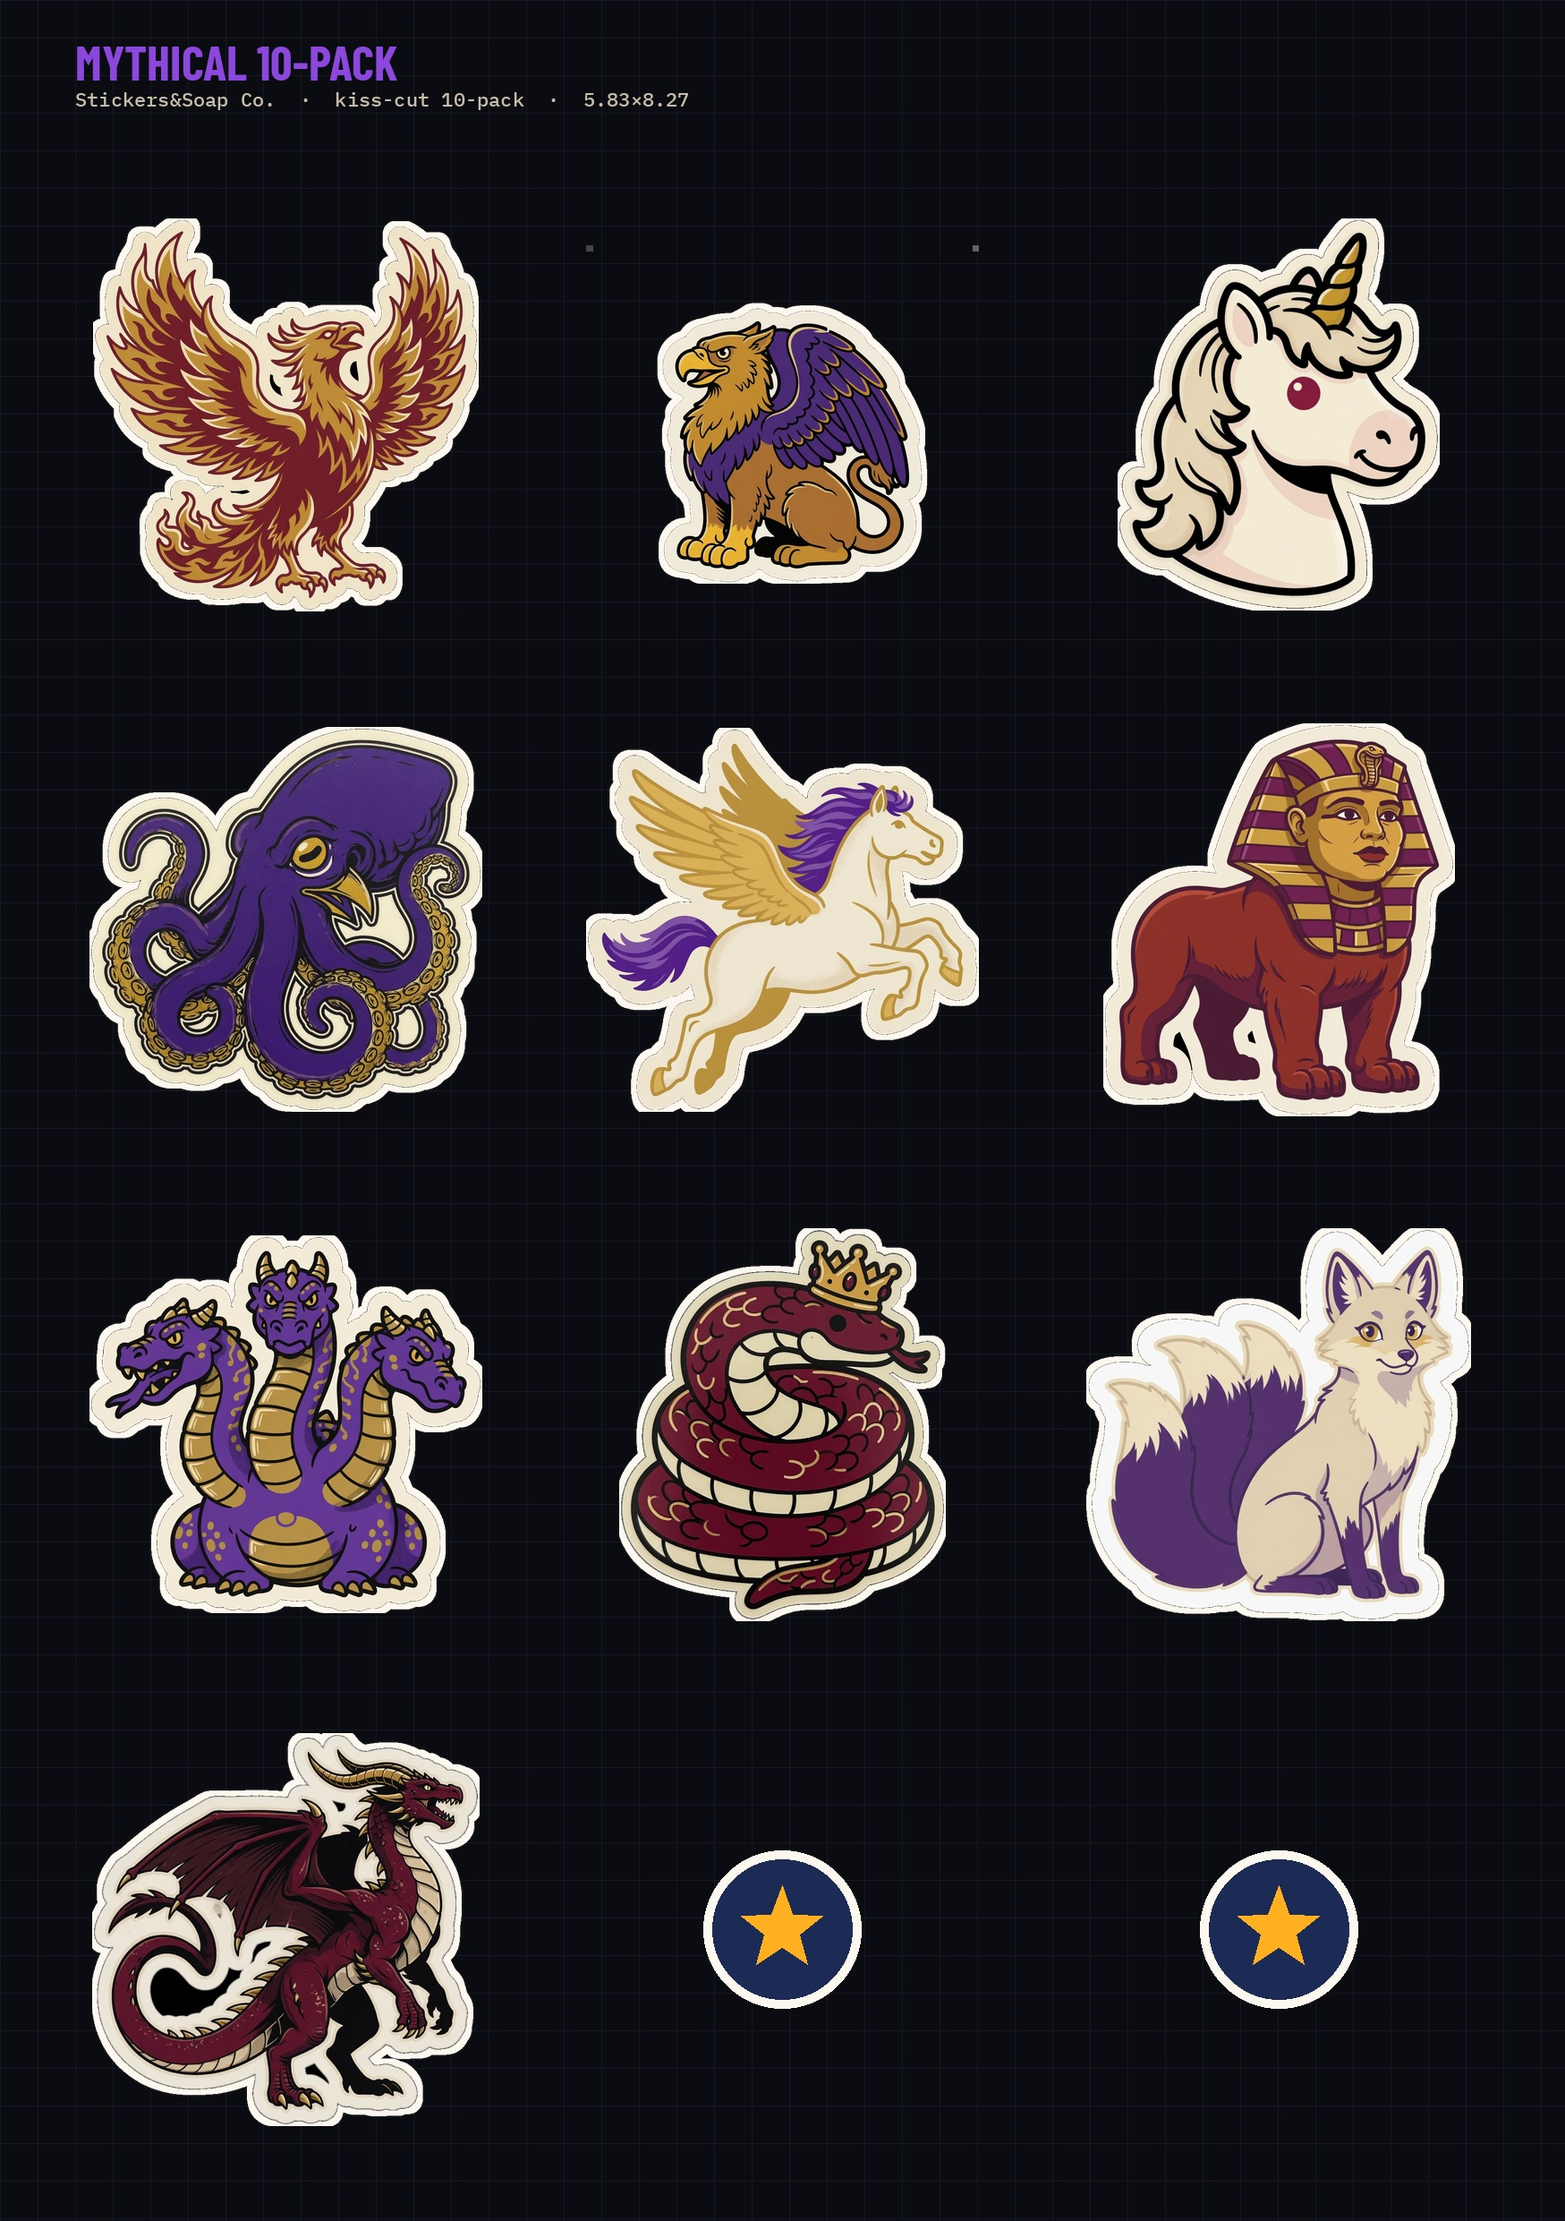
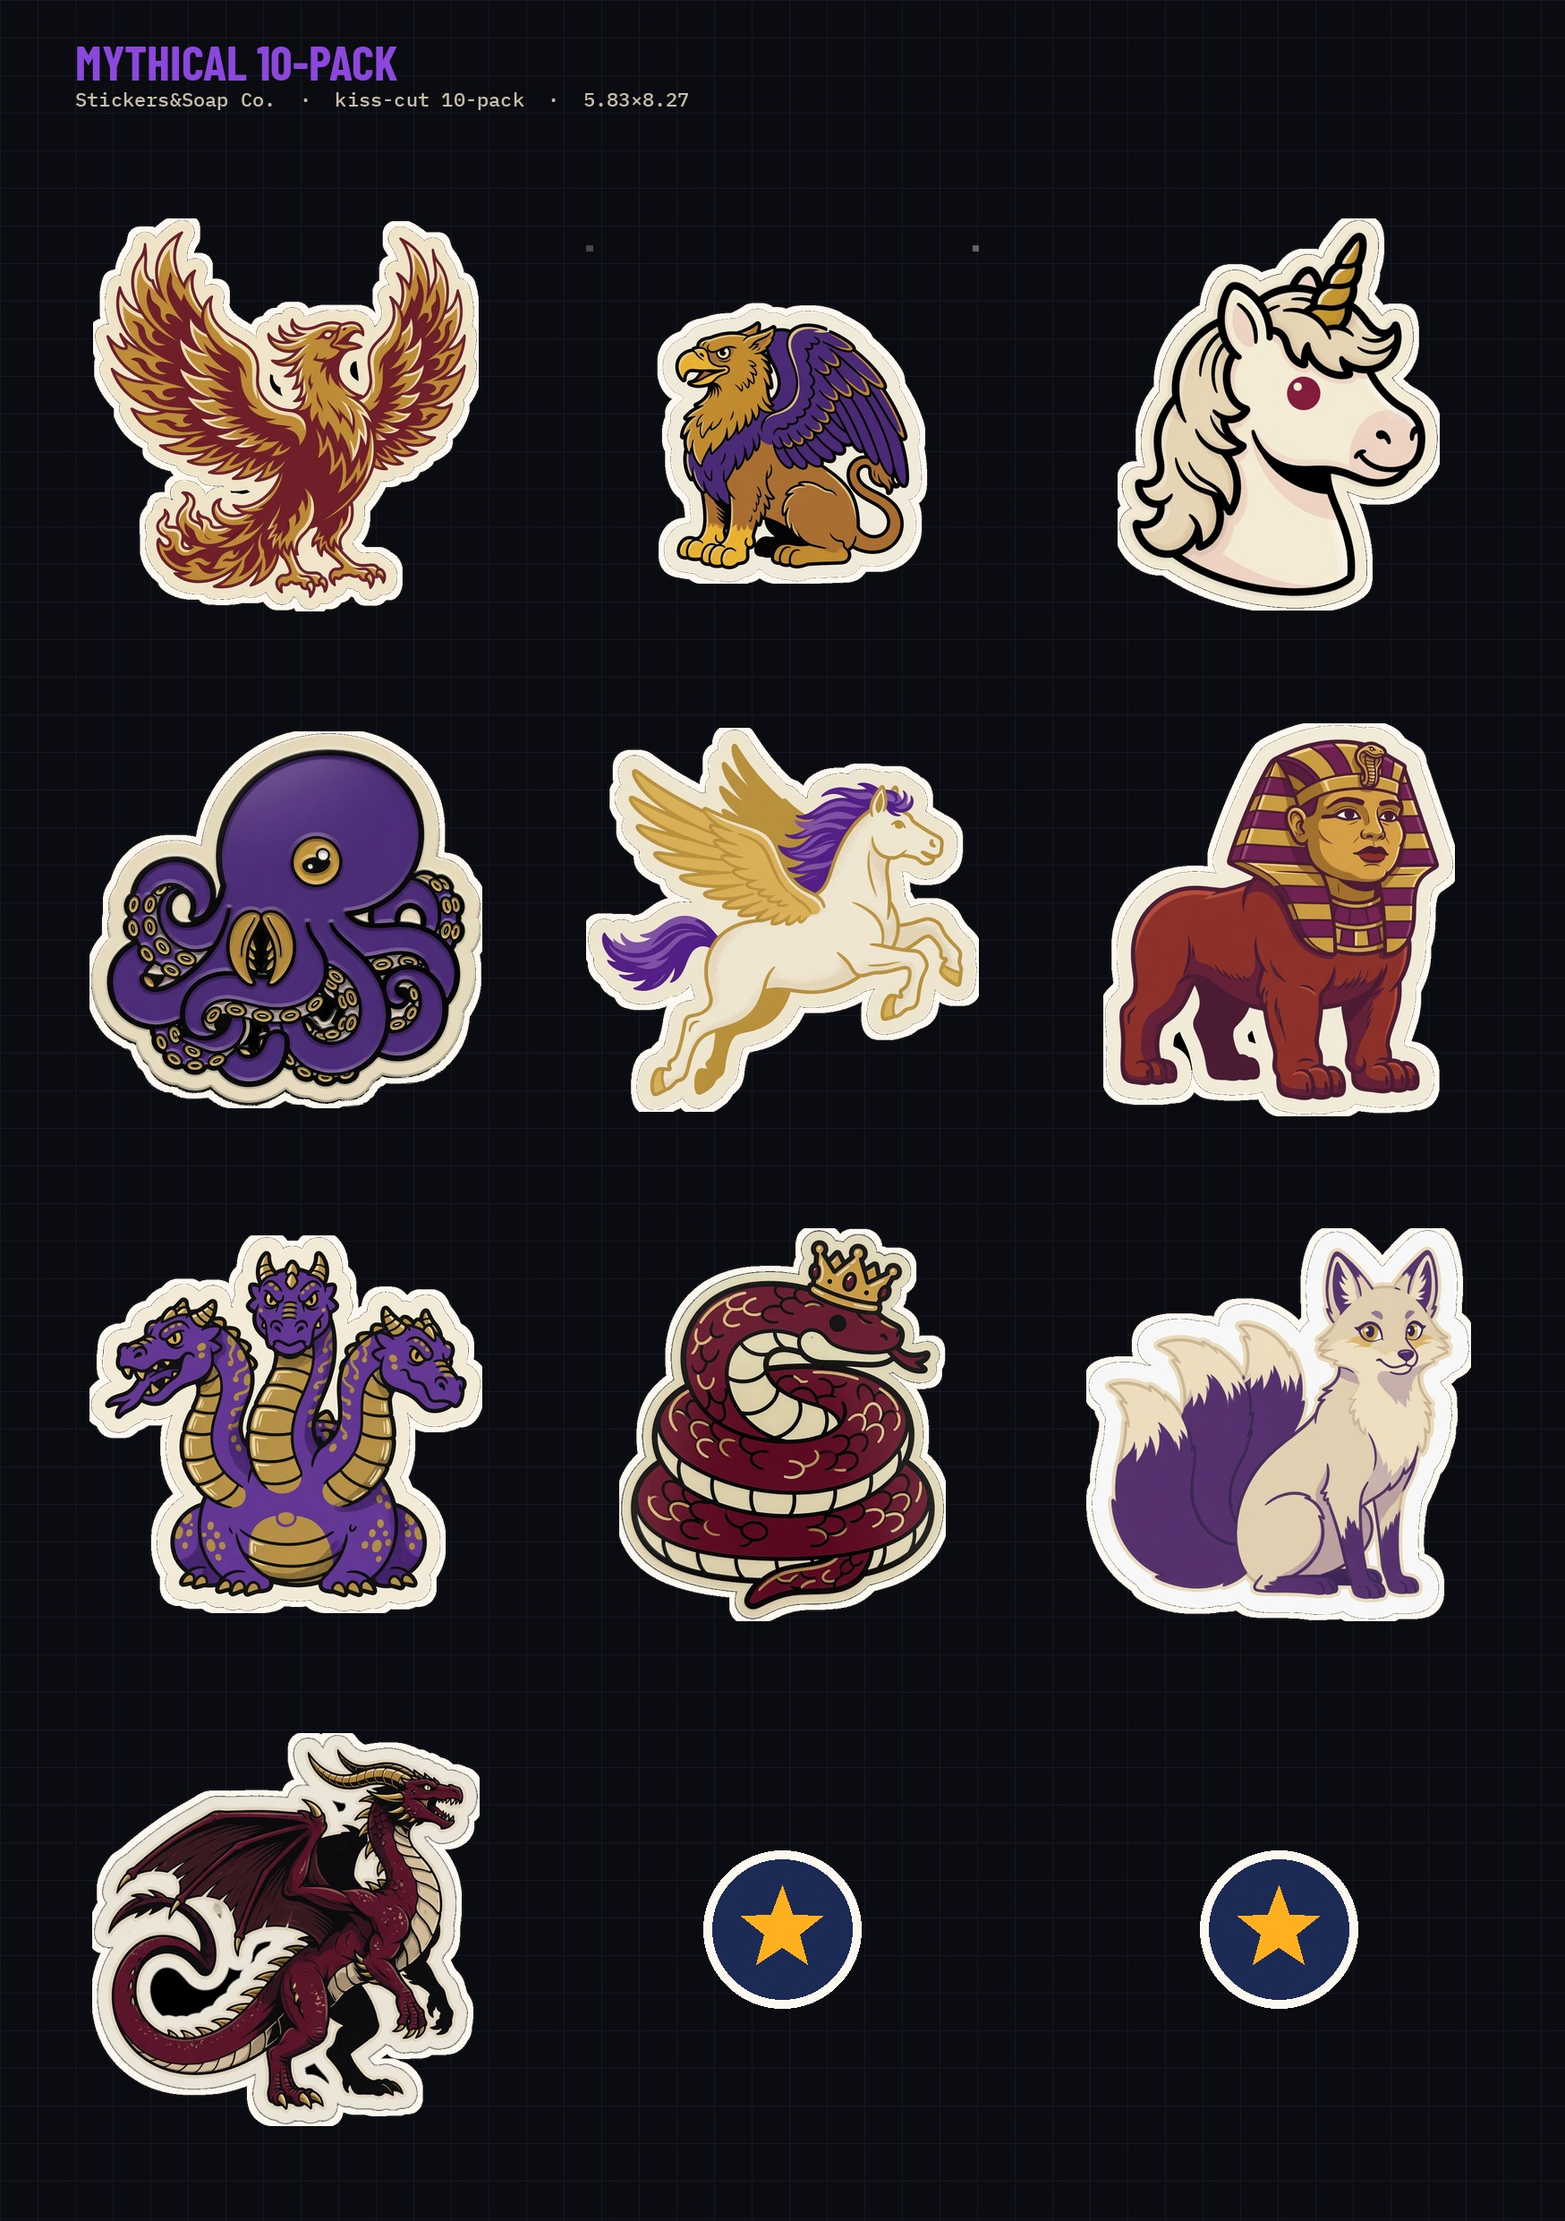
publish(merch-review): 2026-09-13T2029Z

Changed region(s): [[0.0617, 0.3104, 0.3087, 0.5276]]

diff --git a/merch-review/index.html b/merch-review/index.html
@@ -4,9 +4,9 @@
 <meta charset="utf-8"/>
 <meta name="viewport" content="width=device-width, initial-scale=1, viewport-fit=cover"/>
 <meta name="robots" content="noindex"/>
-<meta name="merch-review-build" content="rev7-sticker-shop-2026-09-13"/>
-<title>Rev 7 review — Stickers&Soap Co. sticker shop</title>
-<meta name="description" content="Stickers&Soap Co. Rev7: 100 die-cut stickers, 10 genres, 10-packs. S&S OG foundation first. Comment Yes/Later/No."/>
+<meta name="merch-review-build" content="rev7-fix-sticker-shop-2026-09-13"/>
+<title>Rev 7 FIX — Stickers&Soap Co. sticker shop</title>
+<meta name="description" content="Stickers&Soap Co. Rev7 FIX: YES-only stickers, quotes killed, BYO 10-pack $20. Comment Yes/Later/No."/>
 <link rel="canonical" href="https://cprahill.github.io/command/merch-review/"/>
 <link href="https://fonts.googleapis.com/css2?family=Anton&family=Barlow+Condensed:wght@600;700&family=IBM+Plex+Mono:wght@400;500&display=swap" rel="stylesheet"/>
 <style>
@@ -217,10 +217,10 @@ body.og-only .card:not(.og) { display: none; }
 </head>
 <body>
 <header>
-  <div class="brand">COMMAND <i>//</i> MERCH REVIEW · REV7 · STICKERS&amp;SOAP CO.</div>
-  <p style="color:#ffb020;font:700 12px/1.3 IBM Plex Mono,monospace;letter-spacing:.08em">BUILD rev7 · stickers only · 100 marks · 10 genres · singles $5/$6 · 10-packs $14 · S&amp;S OG first</p>
-  <h1>Stickers&amp;Soap Co. Comment Yes / Later / No.</h1>
-  <p class="lede">Rev6 moth/sparrow/toad FAIL. This board is stickers only until profit. Gold tag = recommended S&amp;S OG foundation (year-round). Untagged = drop candidates. No licensed anime. Do not upload live until you YES.</p>
+  <div class="brand">COMMAND <i>//</i> MERCH REVIEW · REV7 FIX · STICKERS&amp;SOAP CO.</div>
+  <p style="color:#ffb020;font:700 12px/1.3 IBM Plex Mono,monospace;letter-spacing:.08em">BUILD rev7-fix · YES-only · quotes/spino killed · singles $5/$6 · genre 10-packs $14 · BYO 10-pack $20 · S&amp;S OG first</p>
+  <h1>Stickers&amp;Soap Co. FIX pass. Comment Yes / Later / No.</h1>
+  <p class="lede">Art fixes: avocado colors, donut frosting, snake one tail, daruma both eyes, kraken beak. Quotes + pack-quote + spino gone. New: Build Your Own 10-pack $20 (pick any 10 YES singles). Gold tag = S&amp;S OG. Do not upload live until you YES this board.</p>
   <div class="tally">
     <span>approve <b id="n-yes">0</b></span>
     <span>later <b id="n-later">0</b></span>
@@ -243,7 +243,6 @@ body.og-only .card:not(.og) { display: none; }
       <a href="#pin">Pins</a>
       <a href="#chibi">Chibi</a>
       <a href="#myth">Myth</a>
-      <a href="#quote">Quotes</a>
       <a href="#anime">Anime</a>
       <a href="#packs">Packs</a>
     </nav>
@@ -255,11 +254,11 @@ body.og-only .card:not(.og) { display: none; }
   <textarea id="global-note" placeholder="Lock OG 24? skip anime? YES Wave 1 Snack pack?…"></textarea>
 </div>
 <footer>
-  <p>Picks save on this phone in localStorage. Export JSON and Drop-save as <code>merch/review-comments.json</code>. Upload winners only from <code>merch/GO-REV7.md</code>.</p>
+  <p>Picks save on this phone in localStorage. Export JSON and Drop-save as <code>merch/review-comments.json</code>. Upload winners only after YES on <code>merch/GO-REV7-FIX.md</code>.</p>
   <p>Fourthwall $0/mo primary. Shopify mapped, meter YES-gated. No tees / keychains until sticker profit.</p>
 </footer>
 <script>
-const KEY = "merch-review-rev7-sticker-2026-09-13";
+const KEY = "merch-review-rev7-fix-2026-09-13";
 const SKUS = [
   {id:'boombox-80s', theme:'eighty', door:'A Fourthwall · B Shopify', name:'Boombox', type:'kiss-cut $5 / die-cut $6', price:5, why:'S&S OG pick. Year-round foundation.', og:true},
   {id:'cassette-80s', theme:'eighty', door:'A Fourthwall · B Shopify', name:'Cassette', type:'kiss-cut $5 / die-cut $6', price:5, why:'S&S OG pick. Year-round foundation.', og:true},
@@ -318,7 +317,6 @@ const SKUS = [
   {id:'ptera-dino', theme:'dino', door:'A Fourthwall · B Shopify', name:'Ptera', type:'kiss-cut $5 / die-cut $6', price:5, why:'Die-cut ready. Cream contour. Original.', og:false},
   {id:'brachio-dino', theme:'dino', door:'A Fourthwall · B Shopify', name:'Brachio', type:'kiss-cut $5 / die-cut $6', price:5, why:'Die-cut ready. Cream contour. Original.', og:false},
   {id:'ankylo-dino', theme:'dino', door:'A Fourthwall · B Shopify', name:'Ankylo', type:'kiss-cut $5 / die-cut $6', price:5, why:'Die-cut ready. Cream contour. Original.', og:false},
-  {id:'spino-dino', theme:'dino', door:'A Fourthwall · B Shopify', name:'Spino', type:'kiss-cut $5 / die-cut $6', price:5, why:'Die-cut ready. Cream contour. Original.', og:false},
   {id:'dilo-dino', theme:'dino', door:'A Fourthwall · B Shopify', name:'Dilo', type:'kiss-cut $5 / die-cut $6', price:5, why:'Die-cut ready. Cream contour. Original.', og:false},
   {id:'para-dino', theme:'dino', door:'A Fourthwall · B Shopify', name:'Para', type:'kiss-cut $5 / die-cut $6', price:5, why:'Die-cut ready. Cream contour. Original.', og:false},
   {id:'lightning-pin', theme:'pin', door:'A Fourthwall · B Shopify', name:'Lightning', type:'kiss-cut $5 / die-cut $6', price:5, why:'S&S OG pick. Year-round foundation.', og:true},
@@ -331,16 +329,6 @@ const SKUS = [
   {id:'rose-pin', theme:'pin', door:'A Fourthwall · B Shopify', name:'Rose', type:'kiss-cut $5 / die-cut $6', price:5, why:'S&S OG pick. Year-round foundation.', og:true},
   {id:'starburst-pin', theme:'pin', door:'A Fourthwall · B Shopify', name:'Starburst', type:'kiss-cut $5 / die-cut $6', price:5, why:'Die-cut ready. Cream contour. Original.', og:false},
   {id:'horseshoe-pin', theme:'pin', door:'A Fourthwall · B Shopify', name:'Horseshoe', type:'kiss-cut $5 / die-cut $6', price:5, why:'Die-cut ready. Cream contour. Original.', og:false},
-  {id:'keep-going', theme:'quote', door:'A Fourthwall · B Shopify', name:'Keep Going', type:'kiss-cut $5 / die-cut $6', price:5, why:'S&S OG pick. Year-round foundation.', og:true},
-  {id:'stay-gold', theme:'quote', door:'A Fourthwall · B Shopify', name:'Stay Gold', type:'kiss-cut $5 / die-cut $6', price:5, why:'S&S OG pick. Year-round foundation.', og:true},
-  {id:'hold-fast', theme:'quote', door:'A Fourthwall · B Shopify', name:'Hold Fast', type:'kiss-cut $5 / die-cut $6', price:5, why:'Die-cut ready. Cream contour. Original.', og:false},
-  {id:'fresh-start', theme:'quote', door:'A Fourthwall · B Shopify', name:'Fresh Start', type:'kiss-cut $5 / die-cut $6', price:5, why:'Die-cut ready. Cream contour. Original.', og:false},
-  {id:'walk-by-faith', theme:'quote', door:'A Fourthwall · B Shopify', name:'Walk by Faith', type:'kiss-cut $5 / die-cut $6', price:5, why:'S&S OG pick. Year-round foundation.', og:true},
-  {id:'still-standing', theme:'quote', door:'A Fourthwall · B Shopify', name:'Still Standing', type:'kiss-cut $5 / die-cut $6', price:5, why:'Die-cut ready. Cream contour. Original.', og:false},
-  {id:'easy-does-it', theme:'quote', door:'A Fourthwall · B Shopify', name:'Easy Does It', type:'kiss-cut $5 / die-cut $6', price:5, why:'Die-cut ready. Cream contour. Original.', og:false},
-  {id:'texas-tough', theme:'quote', door:'A Fourthwall · B Shopify', name:'Texas Tough', type:'kiss-cut $5 / die-cut $6', price:5, why:'S&S OG pick. Year-round foundation.', og:true},
-  {id:'one-more-round', theme:'quote', door:'A Fourthwall · B Shopify', name:'One More Round', type:'kiss-cut $5 / die-cut $6', price:5, why:'Die-cut ready. Cream contour. Original.', og:false},
-  {id:'born-to-build', theme:'quote', door:'A Fourthwall · B Shopify', name:'Born to Build', type:'kiss-cut $5 / die-cut $6', price:5, why:'Die-cut ready. Cream contour. Original.', og:false},
   {id:'us-flag-wave', theme:'flag', door:'A Fourthwall · B Shopify', name:'Old Glory', type:'kiss-cut $5 / die-cut $6', price:5, why:'S&S OG pick. Year-round foundation.', og:true},
   {id:'texas-flag', theme:'flag', door:'A Fourthwall · B Shopify', name:'Texas Flag', type:'kiss-cut $5 / die-cut $6', price:5, why:'S&S OG pick. Year-round foundation.', og:true},
   {id:'texas-outline', theme:'flag', door:'A Fourthwall · B Shopify', name:'Texas Shape', type:'kiss-cut $5 / die-cut $6', price:5, why:'S&S OG pick. Year-round foundation.', og:true},
@@ -368,26 +356,25 @@ const SKUS = [
   {id:'pack-myth', theme:'packs', door:'A Fourthwall · B Shopify', name:'Myth 10-pack', type:'kiss-cut 10-pack sheet', price:14, why:'5.83×8.27 Fourthwall 5495 / Printify sheet.', og:false},
   {id:'pack-dino', theme:'packs', door:'A Fourthwall · B Shopify', name:'Dino 10-pack', type:'kiss-cut 10-pack sheet', price:14, why:'5.83×8.27 Fourthwall 5495 / Printify sheet.', og:false},
   {id:'pack-pin', theme:'packs', door:'A Fourthwall · B Shopify', name:'Pin energy 10-pack', type:'kiss-cut 10-pack sheet', price:14, why:'5.83×8.27 Fourthwall 5495 / Printify sheet.', og:false},
-  {id:'pack-quote', theme:'packs', door:'A Fourthwall · B Shopify', name:'Quotes 10-pack', type:'kiss-cut 10-pack sheet', price:14, why:'5.83×8.27 Fourthwall 5495 / Printify sheet.', og:false},
   {id:'pack-flag', theme:'packs', door:'A Fourthwall · B Shopify', name:'Flags 10-pack', type:'kiss-cut 10-pack sheet', price:14, why:'OG pack. One sheet, one fulfillment.', og:true},
   {id:'pack-snack', theme:'packs', door:'A Fourthwall · B Shopify', name:'Snack Crew 10-pack', type:'kiss-cut 10-pack sheet', price:14, why:'OG pack. One sheet, one fulfillment.', og:true},
   {id:'pack-random-a', theme:'packs', door:'A Fourthwall · B Shopify', name:'Mystery Mix A', type:'kiss-cut 10-pack sheet', price:14, why:'OG pack. One sheet, one fulfillment.', og:true},
   {id:'pack-random-b', theme:'packs', door:'A Fourthwall · B Shopify', name:'Mystery Mix B', type:'kiss-cut 10-pack sheet', price:14, why:'5.83×8.27 Fourthwall 5495 / Printify sheet.', og:false},
-  {id:'pack-random-c', theme:'packs', door:'A Fourthwall · B Shopify', name:'Mystery Mix C', type:'kiss-cut 10-pack sheet', price:14, why:'5.83×8.27 Fourthwall 5495 / Printify sheet.', og:false}
+  {id:'pack-random-c', theme:'packs', door:'A Fourthwall · B Shopify', name:'Mystery Mix C', type:'kiss-cut 10-pack sheet', price:14, why:'5.83×8.27 Fourthwall 5495 / Printify sheet.', og:false},
+  {id:'pack-byo-10', theme:'packs', door:'A Fourthwall · B Shopify', name:'Build Your Own 10-pack', type:'build-your-own 10-pack', price:20, why:'Pick any 10 YES singles. $20. Fourthwall/Shopify prep only — not live.', og:true}
 ]
 ;
 const THEMES = [
-  {id:"snack", title:"Snack Crew", door:"A Fourthwall", lede:"Wildcard. Food kawaii. Highest want-and-buy. Wave 1. Gold tag = S&S OG pick."},
-  {id:"dino", title:"Dinosaurs", door:"A Fourthwall", lede:"Chunky enamel-pin dinos. Kid + adult impulse."},
+  {id:"snack", title:"Snack Crew", door:"A Fourthwall", lede:"Wildcard. Food kawaii. Highest want-and-buy. Wave 1. Avocado colors + donut frosting fixed."},
+  {id:"dino", title:"Dinosaurs", door:"A Fourthwall", lede:"Chunky enamel-pin dinos. Spino killed. Kid + adult impulse."},
   {id:"eighty", title:"80s", door:"A Fourthwall", lede:"Retro objects. Boombox, cassette, walkman."},
   {id:"nineties", title:"90s", door:"A Fourthwall", lede:"Floppy, discman, original pet-egg. No licensed toys."},
   {id:"flag", title:"Flags / state", door:"A Fourthwall", lede:"Flags YES. Parties / candidates NO."},
-  {id:"pin", title:"Enamel pin energy", door:"A Fourthwall", lede:"Badge-thick contour. Lightning, rose, lucky marks."},
-  {id:"chibi", title:"Chibi Japan", door:"A Fourthwall", lede:"Original kawaii. No Sanrio."},
-  {id:"myth", title:"Mythical", door:"A Fourthwall", lede:"Collectible creatures. Not Line Dragon."},
-  {id:"quote", title:"Quotes", door:"A Fourthwall", lede:"Designed type badges. Letters stay off creature art."},
+  {id:"pin", title:"Enamel pin energy", door:"A Fourthwall", lede:"Badge-thick contour. Lightning, rose, lucky marks. Snake is one tail."},
+  {id:"chibi", title:"Chibi Japan", door:"A Fourthwall", lede:"Original kawaii. No Sanrio. Daruma both eyes painted."},
+  {id:"myth", title:"Mythical", door:"A Fourthwall", lede:"Collectible creatures. Not Line Dragon. Kraken beak fixed."},
   {id:"anime", title:"Anime originals", door:"A Fourthwall", lede:"Shonen energy, original faces. No Naruto / Goku / Sailor Moon."},
-  {id:"packs", title:"10-packs", door:"A Fourthwall sheet $14", lede:"One kiss-cut sheet per pack. Not 10 fulfillments."},
+  {id:"packs", title:"10-packs", door:"A Fourthwall", lede:"Genre sheets $14. Mystery mixes $14. Build Your Own 10-pack $20 — pick any 10 YES singles. Prep only, not live."},
 ];
 
 const state = JSON.parse(localStorage.getItem(KEY) || '{"picks":{},"notes":{},"global":""}');
@@ -415,7 +402,7 @@ function cardHTML(s) {
   const og = s.og ? `<span class="tag">S&S OG</span>` : "";
   const cls = s.og ? "card og" : "card";
   return `<article class="${cls}" data-id="${s.id}">
-    <img class="hero" src="./img/${s.id}.jpg?v=rev7" alt="${s.name} ${s.type}" width="800" height="800"/>
+    <img class="hero" src="./img/${s.id}.jpg?v=rev7fix" alt="${s.name} ${s.type}" width="800" height="800"/>
     <div class="pad">
       ${og}
       <span class="door">${s.door} · ${s.type} $${s.price}</span>
